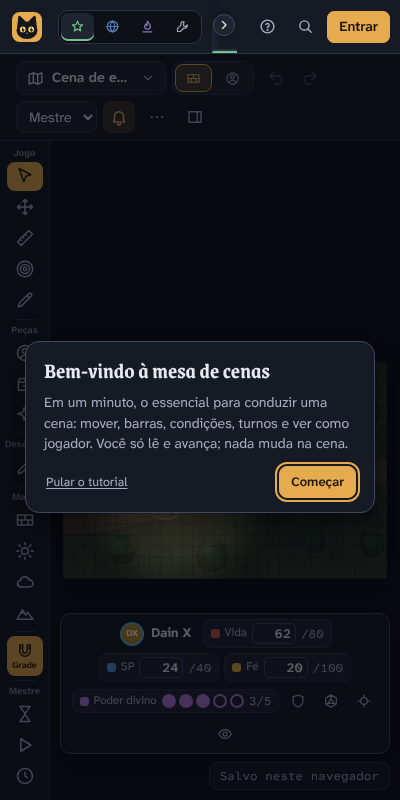
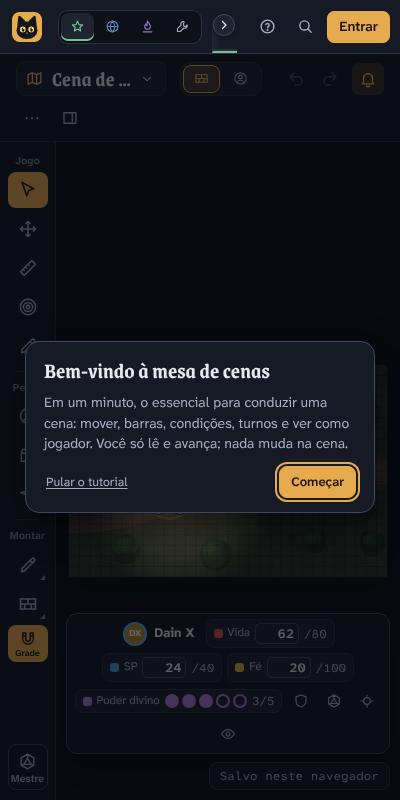
Lote 139: o botão Versão nova não fica preso (VERSAO igual ao versao.json; não avisa de novo depois de recarregar para a mesma)
Claude-Session: https://claude.ai/code/session_012xw6u9j5oFxrY6WvcLn9Y2

diff --git a/index.html b/index.html
@@ -744,7 +744,7 @@ dialog.busca { width: min(600px, calc(100% - 24px)); margin: min(10vh, 80px) aut
 (() => {
   'use strict';
   // Versão publicada: entra no endereço de cada sistema para o navegador buscar a página nova depois de uma atualização.
-  const VERSAO = '2026.11.10-12';
+  const VERSAO = '2026.11.11-01';
   const ICO = {
     cenas: '<path d="M9 4 3 6.5v13.5l6-2.5 6 2.5 6-2.5V4l-6 2.5L9 4z"/><path d="M9 4v13.5"/><path d="M15 6.5V20"/>',
     mundo: '<circle cx="12" cy="12" r="9"/><path d="M3 12h18"/><path d="M12 3c2.4 2.5 3.6 5.5 3.6 9s-1.2 6.5-3.6 9c-2.4-2.5-3.6-5.5-3.6-9S9.6 5.5 12 3z"/>',
@@ -3004,6 +3004,11 @@ dialog.busca { width: min(600px, calc(100% - 24px)); margin: min(10vh, 80px) aut
       if (!r.ok) return;
       const v = (await r.json()).versao;
       if (typeof v !== 'string' || !v || v === VERSAO || v === publicada) return;
+      /* (lote 139) Trava contra o botão que não some: só avisa de versão mais nova que esta, e não avisa de novo da
+         versão para a qual a pessoa já recarregou se a página continuou a mesma (o versao.json publicado andou e a página
+         não: recarregar de novo não resolve). */
+      if (cmpVersao(v, VERSAO) <= 0) return;
+      if (ler('tinycats:recarregou-para') === v + '|' + VERSAO) return;
       publicada = v;
       btnVersao.hidden = false;
       // o que a versão nova traz já vem agora: a janela do botão abre com a lista pronta (nada aparece depois, empurrando)
@@ -3017,7 +3022,7 @@ dialog.busca { width: min(600px, calc(100% - 24px)); margin: min(10vh, 80px) aut
       h('p', { text: 'O site foi atualizado. O que você fez já está guardado. Recarregar leva alguns segundos e traz as correções e as novidades' + (novas.length ? ':' : '.') }),
       novas.length ? h('div', { class: 'nov', id: 'nov-nova' }, novas.map(blocoNovidades)) : null,
       h('div', { class: 'pe' }, h('button', { type: 'button', class: 'btn', text: 'Depois', onclick: fecharJanela }), h('button', { type: 'submit', class: 'btn pri', text: 'Recarregar agora' })));
-    f.addEventListener('submit', ev => { ev.preventDefault(); location.reload(); });
+    f.addEventListener('submit', ev => { ev.preventDefault(); gravar('tinycats:recarregou-para', publicada + '|' + VERSAO); location.reload(); });
     abrirJanela(f);
     if (novas.length) marcarVistas(novas);        // (já viu o que vem: depois de recarregar, a bolinha não acende por isso)
   });

diff --git a/src/tests/site.test.js b/src/tests/site.test.js
@@ -155,6 +155,13 @@ const legado = JSON.stringify({ version: 1, activeHistoryId: 'h_teste', mode: 'f
     await page.locator('#versaoNova').click(); await w(page, 250);
     await page.locator('#dlg button', { hasText: 'Recarregar agora' }).click(); await w(page, 1800);
     ok(recarregou, '"Recarregar agora" recarrega a página');
+    // (lote 139) a página recarregada continua na mesma versão (o versao.json publicado andou e a página não): o botão não volta
+    await w(page, 1200);
+    await page.evaluate(() => window.__conferirVersao()); await w(page, 500);
+    ok(await page.locator('#versaoNova').isHidden(), 'depois de recarregar, se a página não mudou, o botão não fica preso aparecendo');
+    await ctx.route('**/versao.json*', r => r.fulfill({ status: 200, contentType: 'application/json', body: '{"versao":"2000.01.01-1"}' }));
+    await page.evaluate(() => window.__conferirVersao()); await w(page, 300);
+    ok(await page.locator('#versaoNova').isHidden(), 'versão publicada mais velha que esta: não avisa');
     await ctx.close();
   }
 
